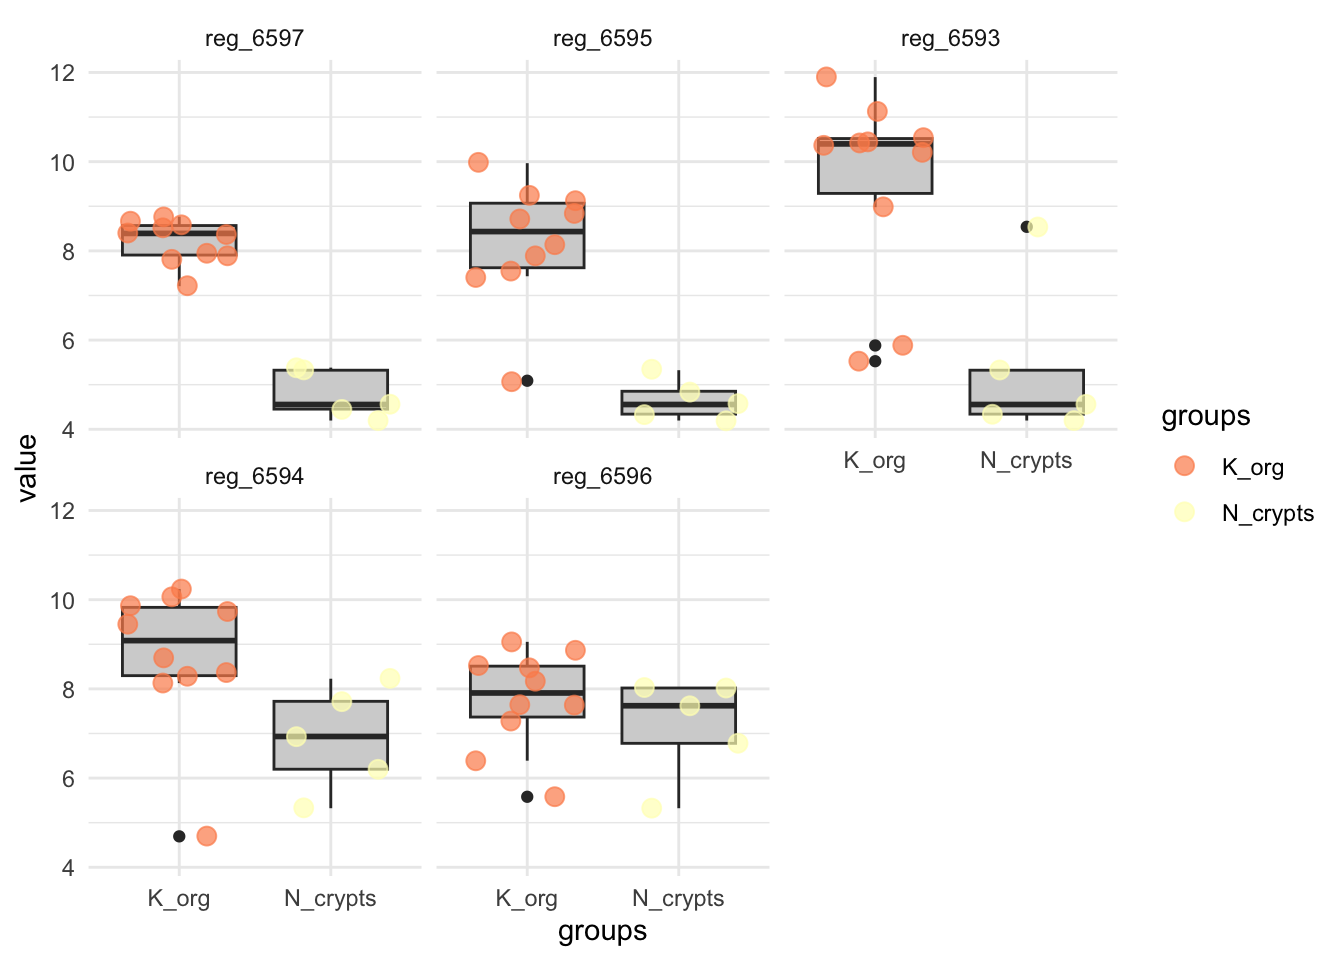
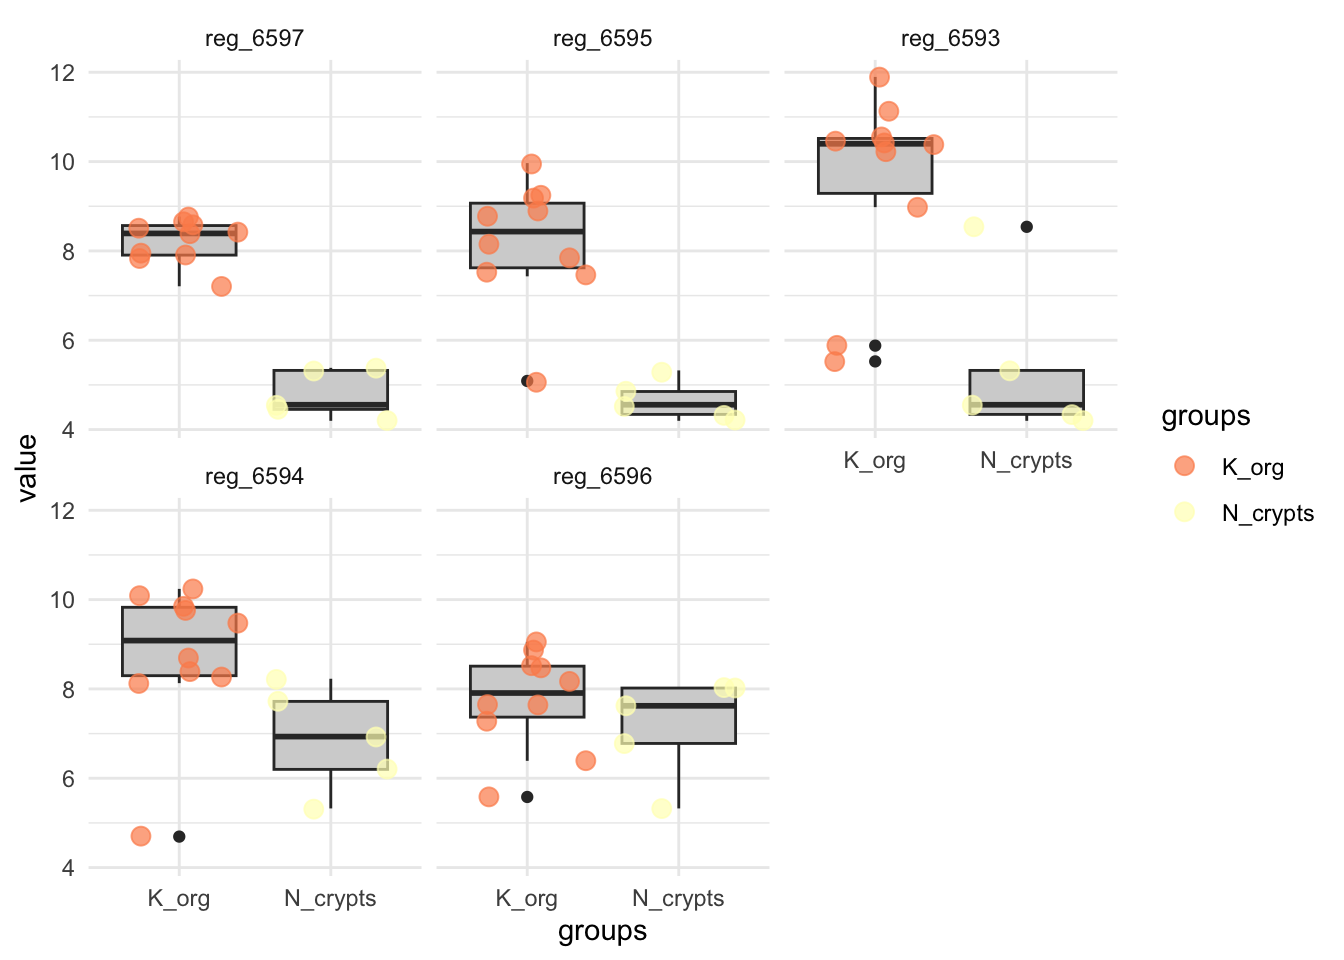
Intro to R updates

diff --git a/docs/IntroGR/pages/Intro_to_R.html b/docs/IntroGR/pages/Intro_to_R.html
@@ -6,7 +6,7 @@
 
 <meta name="viewport" content="width=device-width, initial-scale=1.0, user-scalable=yes">
 
-<meta name="dcterms.date" content="2026-05-24">
+<meta name="dcterms.date" content="2026-05-25">
 
 <title>Introduction to R – 2026 MBMM UNIMI</title>
 <style>
@@ -244,7 +244,7 @@ pre > code.sourceCode > span > a:first-child::before { text-decoration: underlin
     <div>
     <div class="quarto-title-meta-heading">Published</div>
     <div class="quarto-title-meta-contents">
-      <p class="date">May 24, 2026</p>
+      <p class="date">May 25, 2026</p>
     </div>
   </div>
   
@@ -292,7 +292,7 @@ div.col pre.r { background-color:white; }
 <p>You can follow two strategies:</p>
 <ol type="1">
 <li>Install <code>R</code> and RStudio on your machine</li>
-<li><strong>Use the R Studio already installed on the mochines in the room.</strong></li>
+<li><strong>Use the R Studio already installed on the machines in the room.</strong></li>
 <li>Run RStudio in a browser using RStudio Cloud.</li>
 </ol>
 <p>Note that the first option will require a bit more time and effort. To get started with RStudio Cloud (now Posit Cloud), click on <a href="https://posit.cloud/plans/free">this link</a> and create a Posit free account. Once you completed your registration, you are redirected to <code>Your Workspace</code>. To start a new R project, you can click on <code>New Project &gt; New RStudio Project</code>. This will open RStudio on the Cloud. Select R 4.4 from the R version option above the Global Environment Panel (top right)</p>
@@ -749,7 +749,7 @@ $metadata
 <img src="../pics/Function.png" class="img-fluid" width="500">
 </center>
 <blockquote class="blockquote">
-<p>Make your own function! If the formula to convert Fahrenheit to Celsius is as follows, how can you define a function? (32°F − 32) × 5/9 = 0°C</p>
+<p>🤔 Exercise: Make your own function! If the formula to convert Fahrenheit to Celsius is as follows, how can you define a function? (32°F − 32) × 5/9 = 0°C</p>
 </blockquote>
 <blockquote class="blockquote">
 <p>💡We can also nest one function call inside another.</p>
@@ -990,15 +990,13 @@ Porsche 914-2  26.0   4 120.3  91 4.43 2.140 16.70  0  1    5    2       1
 Lotus Europa   30.4   4  95.1 113 3.77 1.513 16.90  1  1    5    2       1</code></pre>
 </div>
 </div>
-<p>Combining operations: Identify cars with 5 gears and horse power &gt; 100. Display the miles per gallon in descending order.</p>
+<blockquote class="blockquote">
 <p>Note, we do not create a new object here, just inspecting the output of the combined functions we perform.</p>
+</blockquote>
+<blockquote class="blockquote">
+<p>🤔 Exercise: Identify cars with 5 gears and horse power &gt; 100. Display the miles per gallon in descending order.</p>
+</blockquote>
 <div class="cell" data-layout-align="center">
-<div class="code-copy-outer-scaffold"><div class="sourceCode cell-code" id="cb106"><pre class="sourceCode r code-with-copy"><code class="sourceCode r"><span id="cb106-1"><a href="#cb106-1" aria-hidden="true" tabindex="-1"></a><span class="co"># Combining operations</span></span>
-<span id="cb106-2"><a href="#cb106-2" aria-hidden="true" tabindex="-1"></a>mtcars <span class="sc">%&gt;%</span> </span>
-<span id="cb106-3"><a href="#cb106-3" aria-hidden="true" tabindex="-1"></a>      <span class="fu">mutate</span>(<span class="at">hmpg_gear =</span> <span class="fu">ifelse</span>(hp<span class="sc">&gt;</span><span class="dv">100</span> <span class="sc">&amp;</span> gear<span class="sc">==</span><span class="dv">5</span>, <span class="st">'1'</span>, <span class="st">'0'</span>)) <span class="sc">%&gt;%</span> </span>
-<span id="cb106-4"><a href="#cb106-4" aria-hidden="true" tabindex="-1"></a>      <span class="fu">filter</span>(hmpg_gear<span class="sc">==</span><span class="dv">1</span>) <span class="sc">%&gt;%</span></span>
-<span id="cb106-5"><a href="#cb106-5" aria-hidden="true" tabindex="-1"></a>      <span class="fu">arrange</span>(<span class="fu">desc</span>(mpg)) <span class="sc">%&gt;%</span></span>
-<span id="cb106-6"><a href="#cb106-6" aria-hidden="true" tabindex="-1"></a>      <span class="fu">select</span>(mpg)</span></code></pre></div><button title="Copy to Clipboard" class="code-copy-button"><i class="bi"></i></button></div>
 <div class="cell-output cell-output-stdout">
 <pre class="bordered"><code>                mpg
 Lotus Europa   30.4
@@ -1032,14 +1030,14 @@ Maserati Bora  15.0</code></pre>
 <p>We will convert a subset (<code>slice</code> and <code>select</code>) of the mtcars object from wide to long format. We specify which columns we want to pivot into longer format in the <code>cols</code> argument. This information will be stored in the metadata column <code>names_to</code>. The actual values will be stored in the <code>values_to</code> column. <code>cols</code> defines a selection of columns. If empty, all variables are selected. You can supply bare variable names, select all variables between x and z with x:z, exclude y with -y.</p>
 <p>We keep the rownames as a separate column.</p>
 <div class="cell" data-layout-align="center">
-<div class="code-copy-outer-scaffold"><div class="sourceCode cell-code" id="cb108"><pre class="sourceCode r code-with-copy"><code class="sourceCode r"><span id="cb108-1"><a href="#cb108-1" aria-hidden="true" tabindex="-1"></a><span class="co"># Convert from wide to long format</span></span>
-<span id="cb108-2"><a href="#cb108-2" aria-hidden="true" tabindex="-1"></a>mtcars <span class="sc">%&gt;%</span> </span>
-<span id="cb108-3"><a href="#cb108-3" aria-hidden="true" tabindex="-1"></a>  <span class="fu">slice</span>(<span class="dv">1</span><span class="sc">:</span><span class="dv">4</span>) <span class="sc">%&gt;%</span> </span>
-<span id="cb108-4"><a href="#cb108-4" aria-hidden="true" tabindex="-1"></a>  <span class="fu">select</span>(<span class="dv">1</span><span class="sc">:</span><span class="dv">4</span>) <span class="sc">%&gt;%</span> </span>
-<span id="cb108-5"><a href="#cb108-5" aria-hidden="true" tabindex="-1"></a>  <span class="fu">mutate</span>(<span class="at">cars=</span><span class="fu">rownames</span>(.)) <span class="sc">%&gt;%</span> </span>
-<span id="cb108-6"><a href="#cb108-6" aria-hidden="true" tabindex="-1"></a>  <span class="co">#pivot_longer(!cars, names_to = "keys", values_to = "value")</span></span>
-<span id="cb108-7"><a href="#cb108-7" aria-hidden="true" tabindex="-1"></a>  <span class="fu">pivot_longer</span>(<span class="at">cols=</span>mpg<span class="sc">:</span>hp, <span class="at">names_to =</span> <span class="st">"keys"</span>, <span class="at">values_to =</span> <span class="st">"value"</span>) <span class="sc">%&gt;%</span></span>
-<span id="cb108-8"><a href="#cb108-8" aria-hidden="true" tabindex="-1"></a>  <span class="fu">kbl</span>() <span class="sc">%&gt;%</span> <span class="fu">kable_styling</span>()</span></code></pre></div><button title="Copy to Clipboard" class="code-copy-button"><i class="bi"></i></button></div>
+<div class="code-copy-outer-scaffold"><div class="sourceCode cell-code" id="cb107"><pre class="sourceCode r code-with-copy"><code class="sourceCode r"><span id="cb107-1"><a href="#cb107-1" aria-hidden="true" tabindex="-1"></a><span class="co"># Convert from wide to long format</span></span>
+<span id="cb107-2"><a href="#cb107-2" aria-hidden="true" tabindex="-1"></a>mtcars <span class="sc">%&gt;%</span> </span>
+<span id="cb107-3"><a href="#cb107-3" aria-hidden="true" tabindex="-1"></a>  <span class="fu">slice</span>(<span class="dv">1</span><span class="sc">:</span><span class="dv">4</span>) <span class="sc">%&gt;%</span> </span>
+<span id="cb107-4"><a href="#cb107-4" aria-hidden="true" tabindex="-1"></a>  <span class="fu">select</span>(<span class="dv">1</span><span class="sc">:</span><span class="dv">4</span>) <span class="sc">%&gt;%</span> </span>
+<span id="cb107-5"><a href="#cb107-5" aria-hidden="true" tabindex="-1"></a>  <span class="fu">mutate</span>(<span class="at">cars=</span><span class="fu">rownames</span>(.)) <span class="sc">%&gt;%</span> </span>
+<span id="cb107-6"><a href="#cb107-6" aria-hidden="true" tabindex="-1"></a>  <span class="fu">pivot_longer</span>(<span class="at">cols=</span><span class="sc">!</span>cars, <span class="at">names_to =</span> <span class="st">"keys"</span>, <span class="at">values_to =</span> <span class="st">"value"</span>) <span class="sc">%&gt;%</span></span>
+<span id="cb107-7"><a href="#cb107-7" aria-hidden="true" tabindex="-1"></a>  <span class="co">#pivot_longer(cols=mpg:hp, names_to = "keys", values_to = "value") %&gt;%</span></span>
+<span id="cb107-8"><a href="#cb107-8" aria-hidden="true" tabindex="-1"></a>  <span class="fu">kbl</span>() <span class="sc">%&gt;%</span> <span class="fu">kable_styling</span>()</span></code></pre></div><button title="Copy to Clipboard" class="code-copy-button"><i class="bi"></i></button></div>
 <div class="cell-output-display">
 <table class="table caption-top table-sm table-striped small">
 <thead>
@@ -1136,15 +1134,16 @@ Maserati Bora  15.0</code></pre>
 </div>
 <p>We first covert from wide to long format (in this cases using <code>gather</code> which is no longer under active development). Then we convert back to wide format.</p>
 <div class="cell" data-layout-align="center">
-<div class="code-copy-outer-scaffold"><div class="sourceCode cell-code" id="cb109"><pre class="sourceCode r code-with-copy"><code class="sourceCode r"><span id="cb109-1"><a href="#cb109-1" aria-hidden="true" tabindex="-1"></a><span class="co"># Convert from long back to wide format</span></span>
-<span id="cb109-2"><a href="#cb109-2" aria-hidden="true" tabindex="-1"></a>mtcars <span class="sc">%&gt;%</span> <span class="fu">slice</span>(<span class="dv">1</span><span class="sc">:</span><span class="dv">4</span>) <span class="sc">%&gt;%</span> <span class="fu">select</span>(<span class="dv">1</span><span class="sc">:</span><span class="dv">4</span>) <span class="sc">%&gt;%</span> </span>
-<span id="cb109-3"><a href="#cb109-3" aria-hidden="true" tabindex="-1"></a>  <span class="fu">mutate</span>(<span class="at">cars=</span><span class="fu">rownames</span>(.)) <span class="sc">%&gt;%</span> </span>
-<span id="cb109-4"><a href="#cb109-4" aria-hidden="true" tabindex="-1"></a>  <span class="co"># Here we use gather</span></span>
-<span id="cb109-5"><a href="#cb109-5" aria-hidden="true" tabindex="-1"></a>  <span class="fu">gather</span>(keys, value, <span class="sc">-</span>cars) <span class="sc">%&gt;%</span></span>
-<span id="cb109-6"><a href="#cb109-6" aria-hidden="true" tabindex="-1"></a>  <span class="fu">pivot_wider</span>(<span class="at">names_from =</span> <span class="st">"keys"</span>, </span>
-<span id="cb109-7"><a href="#cb109-7" aria-hidden="true" tabindex="-1"></a>              <span class="at">names_prefix =</span> <span class="st">"var_"</span>,</span>
-<span id="cb109-8"><a href="#cb109-8" aria-hidden="true" tabindex="-1"></a>              <span class="at">values_from =</span> <span class="st">"value"</span>) <span class="sc">%&gt;%</span></span>
-<span id="cb109-9"><a href="#cb109-9" aria-hidden="true" tabindex="-1"></a>  <span class="fu">kbl</span>() <span class="sc">%&gt;%</span> <span class="fu">kable_styling</span>()</span></code></pre></div><button title="Copy to Clipboard" class="code-copy-button"><i class="bi"></i></button></div>
+<div class="code-copy-outer-scaffold"><div class="sourceCode cell-code" id="cb108"><pre class="sourceCode r code-with-copy"><code class="sourceCode r"><span id="cb108-1"><a href="#cb108-1" aria-hidden="true" tabindex="-1"></a><span class="co"># Convert from long back to wide format</span></span>
+<span id="cb108-2"><a href="#cb108-2" aria-hidden="true" tabindex="-1"></a>mtcars <span class="sc">%&gt;%</span> <span class="fu">slice</span>(<span class="dv">1</span><span class="sc">:</span><span class="dv">4</span>) <span class="sc">%&gt;%</span> <span class="fu">select</span>(<span class="dv">1</span><span class="sc">:</span><span class="dv">4</span>) <span class="sc">%&gt;%</span> </span>
+<span id="cb108-3"><a href="#cb108-3" aria-hidden="true" tabindex="-1"></a>  <span class="fu">mutate</span>(<span class="at">cars=</span><span class="fu">rownames</span>(.)) <span class="sc">%&gt;%</span> </span>
+<span id="cb108-4"><a href="#cb108-4" aria-hidden="true" tabindex="-1"></a>  <span class="co"># Here we use gather</span></span>
+<span id="cb108-5"><a href="#cb108-5" aria-hidden="true" tabindex="-1"></a>  <span class="fu">gather</span>(keys, value, <span class="sc">-</span>cars) <span class="sc">%&gt;%</span></span>
+<span id="cb108-6"><a href="#cb108-6" aria-hidden="true" tabindex="-1"></a>  <span class="co">#reshape2::melt(id.vars="cars", measure.vars= c("mpg", "cyl", "disp", "hp"),variable.name="keys",     value.name="value") %&gt;%</span></span>
+<span id="cb108-7"><a href="#cb108-7" aria-hidden="true" tabindex="-1"></a>  <span class="fu">pivot_wider</span>(<span class="at">names_from =</span> <span class="st">"keys"</span>, </span>
+<span id="cb108-8"><a href="#cb108-8" aria-hidden="true" tabindex="-1"></a>              <span class="at">names_prefix =</span> <span class="st">"var_"</span>,</span>
+<span id="cb108-9"><a href="#cb108-9" aria-hidden="true" tabindex="-1"></a>              <span class="at">values_from =</span> <span class="st">"value"</span>) <span class="sc">%&gt;%</span></span>
+<span id="cb108-10"><a href="#cb108-10" aria-hidden="true" tabindex="-1"></a>  <span class="fu">kbl</span>() <span class="sc">%&gt;%</span> <span class="fu">kable_styling</span>()</span></code></pre></div><button title="Copy to Clipboard" class="code-copy-button"><i class="bi"></i></button></div>
 <div class="cell-output-display">
 <table class="table caption-top table-sm table-striped small">
 <thead>
@@ -1195,7 +1194,12 @@ Maserati Bora  15.0</code></pre>
 </section>
 <section id="ggplot2" class="level3">
 <h3 class="anchored" data-anchor-id="ggplot2">ggplot2</h3>
-<p>ggplot is a powerful and flexible library for tidyverse. Data stored in a dataframe/tibble is passed to ggplot along with two main arguments: i) columns to be plotted, and ii) graphical representation to be displayed. Additional customization is possible.</p>
+<p>ggplot is a powerful and flexible library of tidyverse to create plots.</p>
+<center>
+<p><img src="../pics/plots.png" class="img-fluid" width="400"></p>
+<p><a href="https://r-graph-gallery.com/" class="uri"><em>https://r-graph-gallery.com/</em></a></p>
+</center>
+<p>Data stored in a dataframe/tibble is passed to ggplot along with two main arguments: i) columns to be plotted, and ii) graphical representation to be displayed. Additional customization is possible.</p>
 <p><strong>Geometries and Aesthetics</strong></p>
 <p>Geometries are <strong>types of plot</strong>:</p>
 <ul>
@@ -1214,8 +1218,8 @@ Maserati Bora  15.0</code></pre>
 </center>
 <p>Here, we create a scatter plot for two variables in the mtcar dataset and we will annotate the data based on a third variable.</p>
 <div class="cell" data-layout-align="center">
-<div class="code-copy-outer-scaffold"><div class="sourceCode cell-code" id="cb110"><pre class="sourceCode r code-with-copy"><code class="sourceCode r"><span id="cb110-1"><a href="#cb110-1" aria-hidden="true" tabindex="-1"></a>mtcars <span class="sc">%&gt;%</span> </span>
-<span id="cb110-2"><a href="#cb110-2" aria-hidden="true" tabindex="-1"></a>  <span class="fu">ggplot</span>(<span class="fu">aes</span>(mpg, wt, <span class="at">colour=</span>cyl)) <span class="sc">+</span> <span class="fu">geom_point</span>()</span></code></pre></div><button title="Copy to Clipboard" class="code-copy-button"><i class="bi"></i></button></div>
+<div class="code-copy-outer-scaffold"><div class="sourceCode cell-code" id="cb109"><pre class="sourceCode r code-with-copy"><code class="sourceCode r"><span id="cb109-1"><a href="#cb109-1" aria-hidden="true" tabindex="-1"></a>mtcars <span class="sc">%&gt;%</span> </span>
+<span id="cb109-2"><a href="#cb109-2" aria-hidden="true" tabindex="-1"></a>  <span class="fu">ggplot</span>(<span class="fu">aes</span>(mpg, wt, <span class="at">colour=</span>cyl)) <span class="sc">+</span> <span class="fu">geom_point</span>()</span></code></pre></div><button title="Copy to Clipboard" class="code-copy-button"><i class="bi"></i></button></div>
 <div class="cell-output-display">
 <div class="quarto-figure quarto-figure-center">
 <figure class="figure">
@@ -1228,28 +1232,28 @@ Maserati Bora  15.0</code></pre>
 <p>Notice that the <em>cyl</em> is depicted as continuous variable. We can change this behaviour and plot it as discrete variable by converting it to a factor.</p>
 </blockquote>
 <div class="cell" data-layout-align="center">
-<div class="code-copy-outer-scaffold"><div class="sourceCode cell-code" id="cb111"><pre class="sourceCode r code-with-copy"><code class="sourceCode r"><span id="cb111-1"><a href="#cb111-1" aria-hidden="true" tabindex="-1"></a><span class="co"># Check the class of cyl and convert to factor by defining the levels of the factor</span></span>
-<span id="cb111-2"><a href="#cb111-2" aria-hidden="true" tabindex="-1"></a><span class="fu">class</span>(mtcars<span class="sc">$</span>cyl)</span></code></pre></div><button title="Copy to Clipboard" class="code-copy-button"><i class="bi"></i></button></div>
+<div class="code-copy-outer-scaffold"><div class="sourceCode cell-code" id="cb110"><pre class="sourceCode r code-with-copy"><code class="sourceCode r"><span id="cb110-1"><a href="#cb110-1" aria-hidden="true" tabindex="-1"></a><span class="co"># Check the class of cyl and convert to factor by defining the levels of the factor</span></span>
+<span id="cb110-2"><a href="#cb110-2" aria-hidden="true" tabindex="-1"></a><span class="fu">class</span>(mtcars<span class="sc">$</span>cyl)</span></code></pre></div><button title="Copy to Clipboard" class="code-copy-button"><i class="bi"></i></button></div>
 <div class="cell-output cell-output-stdout">
 <pre class="bordered"><code>[1] "numeric"</code></pre>
 </div>
-<div class="code-copy-outer-scaffold"><div class="sourceCode cell-code" id="cb113"><pre class="sourceCode r code-with-copy"><code class="sourceCode r"><span id="cb113-1"><a href="#cb113-1" aria-hidden="true" tabindex="-1"></a><span class="fu">unique</span>(mtcars<span class="sc">$</span>cyl)</span></code></pre></div><button title="Copy to Clipboard" class="code-copy-button"><i class="bi"></i></button></div>
+<div class="code-copy-outer-scaffold"><div class="sourceCode cell-code" id="cb112"><pre class="sourceCode r code-with-copy"><code class="sourceCode r"><span id="cb112-1"><a href="#cb112-1" aria-hidden="true" tabindex="-1"></a><span class="fu">unique</span>(mtcars<span class="sc">$</span>cyl)</span></code></pre></div><button title="Copy to Clipboard" class="code-copy-button"><i class="bi"></i></button></div>
 <div class="cell-output cell-output-stdout">
 <pre class="bordered"><code>[1] 6 4 8</code></pre>
 </div>
-<div class="code-copy-outer-scaffold"><div class="sourceCode cell-code" id="cb115"><pre class="sourceCode r code-with-copy"><code class="sourceCode r"><span id="cb115-1"><a href="#cb115-1" aria-hidden="true" tabindex="-1"></a>mtcars <span class="sc">%&gt;%</span> </span>
-<span id="cb115-2"><a href="#cb115-2" aria-hidden="true" tabindex="-1"></a>  <span class="fu">mutate</span>(<span class="at">cyl =</span> <span class="fu">factor</span>(cyl, <span class="at">levels=</span><span class="fu">unique</span>(cyl)) ) <span class="sc">%&gt;%</span> </span>
-<span id="cb115-3"><a href="#cb115-3" aria-hidden="true" tabindex="-1"></a>  <span class="fu">pull</span>(cyl) <span class="sc">%&gt;%</span> </span>
-<span id="cb115-4"><a href="#cb115-4" aria-hidden="true" tabindex="-1"></a>  <span class="fu">class</span>()</span></code></pre></div><button title="Copy to Clipboard" class="code-copy-button"><i class="bi"></i></button></div>
+<div class="code-copy-outer-scaffold"><div class="sourceCode cell-code" id="cb114"><pre class="sourceCode r code-with-copy"><code class="sourceCode r"><span id="cb114-1"><a href="#cb114-1" aria-hidden="true" tabindex="-1"></a>mtcars <span class="sc">%&gt;%</span> </span>
+<span id="cb114-2"><a href="#cb114-2" aria-hidden="true" tabindex="-1"></a>  <span class="fu">mutate</span>(<span class="at">cyl =</span> <span class="fu">factor</span>(cyl, <span class="at">levels=</span><span class="fu">unique</span>(cyl)) ) <span class="sc">%&gt;%</span> </span>
+<span id="cb114-3"><a href="#cb114-3" aria-hidden="true" tabindex="-1"></a>  <span class="fu">pull</span>(cyl) <span class="sc">%&gt;%</span> </span>
+<span id="cb114-4"><a href="#cb114-4" aria-hidden="true" tabindex="-1"></a>  <span class="fu">class</span>()</span></code></pre></div><button title="Copy to Clipboard" class="code-copy-button"><i class="bi"></i></button></div>
 <div class="cell-output cell-output-stdout">
 <pre class="bordered"><code>[1] "factor"</code></pre>
 </div>
-<div class="code-copy-outer-scaffold"><div class="sourceCode cell-code" id="cb117"><pre class="sourceCode r code-with-copy"><code class="sourceCode r"><span id="cb117-1"><a href="#cb117-1" aria-hidden="true" tabindex="-1"></a><span class="co">#mtcars %&gt;% mutate(across(cyl, as.factor)) %&gt;% pull(cyl) %&gt;% class()</span></span></code></pre></div><button title="Copy to Clipboard" class="code-copy-button"><i class="bi"></i></button></div>
+<div class="code-copy-outer-scaffold"><div class="sourceCode cell-code" id="cb116"><pre class="sourceCode r code-with-copy"><code class="sourceCode r"><span id="cb116-1"><a href="#cb116-1" aria-hidden="true" tabindex="-1"></a><span class="co">#mtcars %&gt;% mutate(across(cyl, as.factor)) %&gt;% pull(cyl) %&gt;% class()</span></span></code></pre></div><button title="Copy to Clipboard" class="code-copy-button"><i class="bi"></i></button></div>
 </div>
 <div class="cell" data-layout-align="center">
-<div class="code-copy-outer-scaffold"><div class="sourceCode cell-code" id="cb118"><pre class="sourceCode r code-with-copy"><code class="sourceCode r"><span id="cb118-1"><a href="#cb118-1" aria-hidden="true" tabindex="-1"></a>mtcars <span class="sc">%&gt;%</span> <span class="fu">mutate</span>(<span class="fu">across</span>(cyl, as.factor)) <span class="sc">%&gt;%</span> </span>
-<span id="cb118-2"><a href="#cb118-2" aria-hidden="true" tabindex="-1"></a>        <span class="fu">ggplot</span>(<span class="fu">aes</span>(mpg, wt, <span class="at">colour=</span>cyl)) <span class="sc">+</span> </span>
-<span id="cb118-3"><a href="#cb118-3" aria-hidden="true" tabindex="-1"></a>          <span class="fu">geom_point</span>()</span></code></pre></div><button title="Copy to Clipboard" class="code-copy-button"><i class="bi"></i></button></div>
+<div class="code-copy-outer-scaffold"><div class="sourceCode cell-code" id="cb117"><pre class="sourceCode r code-with-copy"><code class="sourceCode r"><span id="cb117-1"><a href="#cb117-1" aria-hidden="true" tabindex="-1"></a>mtcars <span class="sc">%&gt;%</span> <span class="fu">mutate</span>(<span class="fu">across</span>(cyl, as.factor)) <span class="sc">%&gt;%</span> </span>
+<span id="cb117-2"><a href="#cb117-2" aria-hidden="true" tabindex="-1"></a>        <span class="fu">ggplot</span>(<span class="fu">aes</span>(mpg, wt, <span class="at">colour=</span>cyl)) <span class="sc">+</span> </span>
+<span id="cb117-3"><a href="#cb117-3" aria-hidden="true" tabindex="-1"></a>          <span class="fu">geom_point</span>()</span></code></pre></div><button title="Copy to Clipboard" class="code-copy-button"><i class="bi"></i></button></div>
 <div class="cell-output-display">
 <div class="quarto-figure quarto-figure-center">
 <figure class="figure">
@@ -1258,14 +1262,14 @@ Maserati Bora  15.0</code></pre>
 </div>
 </div>
 </div>
-<p>Can you modify the code to annotate with car labels?</p>
+<p>Can you modify the code to annotate each point with its car label?</p>
 <div class="cell" data-layout-align="center">
-<div class="code-copy-outer-scaffold"><div class="sourceCode cell-code" id="cb119"><pre class="sourceCode r code-with-copy"><code class="sourceCode r"><span id="cb119-1"><a href="#cb119-1" aria-hidden="true" tabindex="-1"></a>mtcars <span class="sc">%&gt;%</span> </span>
-<span id="cb119-2"><a href="#cb119-2" aria-hidden="true" tabindex="-1"></a>  <span class="fu">mutate</span>(<span class="fu">across</span>(cyl, as.factor),</span>
-<span id="cb119-3"><a href="#cb119-3" aria-hidden="true" tabindex="-1"></a>          <span class="at">cars=</span><span class="fu">rownames</span>(.) ) <span class="sc">%&gt;%</span> </span>
-<span id="cb119-4"><a href="#cb119-4" aria-hidden="true" tabindex="-1"></a>  <span class="fu">ggplot</span>(<span class="fu">aes</span>(mpg, wt, <span class="at">colour=</span>cyl, <span class="at">label=</span>cars)) <span class="sc">+</span> </span>
-<span id="cb119-5"><a href="#cb119-5" aria-hidden="true" tabindex="-1"></a>      <span class="fu">geom_point</span>() <span class="sc">+</span> </span>
-<span id="cb119-6"><a href="#cb119-6" aria-hidden="true" tabindex="-1"></a>      <span class="fu">geom_text</span>(<span class="at">vjust=</span><span class="fl">1.6</span>, <span class="at">hjust=</span><span class="fl">0.4</span>, <span class="at">size=</span><span class="dv">2</span>)</span></code></pre></div><button title="Copy to Clipboard" class="code-copy-button"><i class="bi"></i></button></div>
+<div class="code-copy-outer-scaffold"><div class="sourceCode cell-code" id="cb118"><pre class="sourceCode r code-with-copy"><code class="sourceCode r"><span id="cb118-1"><a href="#cb118-1" aria-hidden="true" tabindex="-1"></a>mtcars <span class="sc">%&gt;%</span> </span>
+<span id="cb118-2"><a href="#cb118-2" aria-hidden="true" tabindex="-1"></a>  <span class="fu">mutate</span>(<span class="fu">across</span>(cyl, as.factor),</span>
+<span id="cb118-3"><a href="#cb118-3" aria-hidden="true" tabindex="-1"></a>          <span class="at">cars=</span><span class="fu">rownames</span>(.) ) <span class="sc">%&gt;%</span> </span>
+<span id="cb118-4"><a href="#cb118-4" aria-hidden="true" tabindex="-1"></a>  <span class="fu">ggplot</span>(<span class="fu">aes</span>(mpg, wt, <span class="at">colour=</span>cyl, <span class="at">label=</span>cars)) <span class="sc">+</span> </span>
+<span id="cb118-5"><a href="#cb118-5" aria-hidden="true" tabindex="-1"></a>      <span class="fu">geom_point</span>() <span class="sc">+</span> </span>
+<span id="cb118-6"><a href="#cb118-6" aria-hidden="true" tabindex="-1"></a>      <span class="fu">geom_text</span>(<span class="at">vjust=</span><span class="fl">1.6</span>, <span class="at">hjust=</span><span class="fl">0.4</span>, <span class="at">size=</span><span class="dv">2</span>)</span></code></pre></div><button title="Copy to Clipboard" class="code-copy-button"><i class="bi"></i></button></div>
 <div class="cell-output-display">
 <div class="quarto-figure quarto-figure-center">
 <figure class="figure">
@@ -1274,14 +1278,14 @@ Maserati Bora  15.0</code></pre>
 </div>
 </div>
 </div>
-<p>More exercises:</p>
+<blockquote class="blockquote">
+<p>🤔 More exercises:</p>
 <ul>
-<li>Make all data points size 4 and blue, with red stroke of size 2 and size 4.</li>
-<li>Size according to the number of gears</li>
+<li><p>Make all data points size 4 and blue, with red stroke of size 2.</p></li>
+<li><p>Size according to the number of gears</p></li>
 </ul>
+</blockquote>
 <div class="cell" data-layout-align="center">
-<div class="code-copy-outer-scaffold"><div class="sourceCode cell-code" id="cb120"><pre class="sourceCode r code-with-copy"><code class="sourceCode r"><span id="cb120-1"><a href="#cb120-1" aria-hidden="true" tabindex="-1"></a>mtcars <span class="sc">%&gt;%</span> <span class="fu">ggplot</span>(<span class="fu">aes</span>(mpg, wt )) <span class="sc">+</span> </span>
-<span id="cb120-2"><a href="#cb120-2" aria-hidden="true" tabindex="-1"></a>  <span class="fu">geom_point</span>(<span class="at">size=</span><span class="dv">4</span>, <span class="at">colour=</span><span class="st">'red'</span>, <span class="at">fill=</span><span class="st">'blue'</span>, <span class="at">shape=</span><span class="dv">21</span>, <span class="at">stroke=</span><span class="dv">2</span>)</span></code></pre></div><button title="Copy to Clipboard" class="code-copy-button"><i class="bi"></i></button></div>
 <div class="cell-output-display">
 <div class="quarto-figure quarto-figure-center">
 <figure class="figure">
@@ -1289,8 +1293,6 @@ Maserati Bora  15.0</code></pre>
 </figure>
 </div>
 </div>
-<div class="code-copy-outer-scaffold"><div class="sourceCode cell-code" id="cb121"><pre class="sourceCode r code-with-copy"><code class="sourceCode r"><span id="cb121-1"><a href="#cb121-1" aria-hidden="true" tabindex="-1"></a>mtcars <span class="sc">%&gt;%</span> <span class="fu">mutate</span>(<span class="fu">across</span>(gear, as.factor)) <span class="sc">%&gt;%</span> </span>
-<span id="cb121-2"><a href="#cb121-2" aria-hidden="true" tabindex="-1"></a>  <span class="fu">ggplot</span>(<span class="fu">aes</span>(mpg, wt, <span class="at">size=</span>gear)) <span class="sc">+</span> <span class="fu">geom_point</span>(<span class="at">colour=</span><span class="st">'red'</span>)</span></code></pre></div><button title="Copy to Clipboard" class="code-copy-button"><i class="bi"></i></button></div>
 <div class="cell-output-display">
 <div class="quarto-figure quarto-figure-center">
 <figure class="figure">
@@ -1303,24 +1305,24 @@ Maserati Bora  15.0</code></pre>
 <p>Geometries warn when missing values have been dropped from the data set and not plotted. You can turn this off by setting na.rm = TRUE.</p>
 </blockquote>
 <p>Plotting distributions - multiple density plots</p>
-<p>Plot the miles per gallon density across different cylinder values</p>
+<p>Plot the miles per gallon density across different cylinder values. Here, we use additional Aesthetics to change the appearance of the axes and modify the colors of the separate density plots.</p>
 <div class="cell" data-layout-align="center">
-<div class="code-copy-outer-scaffold"><div class="sourceCode cell-code" id="cb122"><pre class="sourceCode r code-with-copy"><code class="sourceCode r"><span id="cb122-1"><a href="#cb122-1" aria-hidden="true" tabindex="-1"></a>mtcars <span class="sc">%&gt;%</span> <span class="fu">mutate</span>(<span class="fu">across</span>(cyl, as.factor)) <span class="sc">%&gt;%</span> </span>
-<span id="cb122-2"><a href="#cb122-2" aria-hidden="true" tabindex="-1"></a>  <span class="fu">ggplot</span>(<span class="fu">aes</span>(mpg, <span class="at">fill=</span>cyl, <span class="at">colour =</span> cyl)) <span class="sc">+</span> </span>
-<span id="cb122-3"><a href="#cb122-3" aria-hidden="true" tabindex="-1"></a>  <span class="fu">geom_density</span>(<span class="at">alpha=</span><span class="fl">0.4</span>) <span class="sc">+</span> </span>
-<span id="cb122-4"><a href="#cb122-4" aria-hidden="true" tabindex="-1"></a>  <span class="fu">theme_classic</span>() <span class="sc">+</span></span>
-<span id="cb122-5"><a href="#cb122-5" aria-hidden="true" tabindex="-1"></a>  <span class="fu">scale_fill_manual</span>(<span class="at">values=</span><span class="fu">c</span>(<span class="st">'grey'</span>,<span class="st">'lightblue'</span>,<span class="st">'yellow'</span>)) <span class="sc">+</span></span>
-<span id="cb122-6"><a href="#cb122-6" aria-hidden="true" tabindex="-1"></a>  <span class="fu">theme</span>(<span class="fu">ggtitle</span>(<span class="st">"Miles per gallon density"</span>),</span>
-<span id="cb122-7"><a href="#cb122-7" aria-hidden="true" tabindex="-1"></a>        <span class="at">legend.position=</span><span class="st">"bottom"</span>, </span>
-<span id="cb122-8"><a href="#cb122-8" aria-hidden="true" tabindex="-1"></a>        <span class="at">legend.text =</span> <span class="fu">element_text</span>(<span class="at">size =</span> <span class="dv">20</span>), </span>
-<span id="cb122-9"><a href="#cb122-9" aria-hidden="true" tabindex="-1"></a>        <span class="at">legend.title =</span> <span class="fu">element_text</span>(<span class="at">size =</span> <span class="dv">15</span>, <span class="at">face =</span> <span class="st">'bold'</span>),</span>
-<span id="cb122-10"><a href="#cb122-10" aria-hidden="true" tabindex="-1"></a>        <span class="at">axis.title.x =</span> <span class="fu">element_text</span>(<span class="at">size =</span> <span class="dv">16</span>),</span>
-<span id="cb122-11"><a href="#cb122-11" aria-hidden="true" tabindex="-1"></a>        <span class="at">axis.title.y =</span> <span class="fu">element_text</span>(<span class="at">size =</span> <span class="dv">16</span>),</span>
-<span id="cb122-12"><a href="#cb122-12" aria-hidden="true" tabindex="-1"></a>        <span class="at">axis.text.y=</span><span class="fu">element_text</span>(<span class="at">size =</span> <span class="dv">10</span>),</span>
-<span id="cb122-13"><a href="#cb122-13" aria-hidden="true" tabindex="-1"></a>        <span class="at">axis.text.x=</span><span class="fu">element_text</span>(<span class="at">size =</span> <span class="dv">10</span>),</span>
-<span id="cb122-14"><a href="#cb122-14" aria-hidden="true" tabindex="-1"></a>        <span class="at">legend.key.size =</span> <span class="fu">unit</span>(.<span class="dv">4</span>, <span class="st">"cm"</span>)) <span class="sc">+</span></span>
-<span id="cb122-15"><a href="#cb122-15" aria-hidden="true" tabindex="-1"></a>  <span class="fu">ylab</span>(<span class="st">'Density'</span>) <span class="sc">+</span></span>
-<span id="cb122-16"><a href="#cb122-16" aria-hidden="true" tabindex="-1"></a>  <span class="fu">xlab</span>(<span class="st">'Miles per gallon'</span>)</span></code></pre></div><button title="Copy to Clipboard" class="code-copy-button"><i class="bi"></i></button></div>
+<div class="code-copy-outer-scaffold"><div class="sourceCode cell-code" id="cb119"><pre class="sourceCode r code-with-copy"><code class="sourceCode r"><span id="cb119-1"><a href="#cb119-1" aria-hidden="true" tabindex="-1"></a>mtcars <span class="sc">%&gt;%</span> <span class="fu">mutate</span>(<span class="fu">across</span>(cyl, as.factor)) <span class="sc">%&gt;%</span> </span>
+<span id="cb119-2"><a href="#cb119-2" aria-hidden="true" tabindex="-1"></a>  <span class="fu">ggplot</span>(<span class="fu">aes</span>(mpg, <span class="at">fill=</span>cyl, <span class="at">colour =</span> cyl)) <span class="sc">+</span> </span>
+<span id="cb119-3"><a href="#cb119-3" aria-hidden="true" tabindex="-1"></a>  <span class="fu">geom_density</span>(<span class="at">alpha=</span><span class="fl">0.4</span>) <span class="sc">+</span> </span>
+<span id="cb119-4"><a href="#cb119-4" aria-hidden="true" tabindex="-1"></a>  <span class="fu">theme_classic</span>() <span class="sc">+</span></span>
+<span id="cb119-5"><a href="#cb119-5" aria-hidden="true" tabindex="-1"></a>  <span class="fu">scale_fill_manual</span>(<span class="at">values=</span><span class="fu">c</span>(<span class="st">'grey'</span>,<span class="st">'lightblue'</span>,<span class="st">'yellow'</span>)) <span class="sc">+</span></span>
+<span id="cb119-6"><a href="#cb119-6" aria-hidden="true" tabindex="-1"></a>  <span class="fu">theme</span>(<span class="fu">ggtitle</span>(<span class="st">"Miles per gallon density"</span>),</span>
+<span id="cb119-7"><a href="#cb119-7" aria-hidden="true" tabindex="-1"></a>        <span class="at">legend.position=</span><span class="st">"bottom"</span>, </span>
+<span id="cb119-8"><a href="#cb119-8" aria-hidden="true" tabindex="-1"></a>        <span class="at">legend.text =</span> <span class="fu">element_text</span>(<span class="at">size =</span> <span class="dv">20</span>), </span>
+<span id="cb119-9"><a href="#cb119-9" aria-hidden="true" tabindex="-1"></a>        <span class="at">legend.title =</span> <span class="fu">element_text</span>(<span class="at">size =</span> <span class="dv">15</span>, <span class="at">face =</span> <span class="st">'bold'</span>),</span>
+<span id="cb119-10"><a href="#cb119-10" aria-hidden="true" tabindex="-1"></a>        <span class="at">axis.title.x =</span> <span class="fu">element_text</span>(<span class="at">size =</span> <span class="dv">16</span>),</span>
+<span id="cb119-11"><a href="#cb119-11" aria-hidden="true" tabindex="-1"></a>        <span class="at">axis.title.y =</span> <span class="fu">element_text</span>(<span class="at">size =</span> <span class="dv">16</span>),</span>
+<span id="cb119-12"><a href="#cb119-12" aria-hidden="true" tabindex="-1"></a>        <span class="at">axis.text.y=</span><span class="fu">element_text</span>(<span class="at">size =</span> <span class="dv">10</span>),</span>
+<span id="cb119-13"><a href="#cb119-13" aria-hidden="true" tabindex="-1"></a>        <span class="at">axis.text.x=</span><span class="fu">element_text</span>(<span class="at">size =</span> <span class="dv">10</span>),</span>
+<span id="cb119-14"><a href="#cb119-14" aria-hidden="true" tabindex="-1"></a>        <span class="at">legend.key.size =</span> <span class="fu">unit</span>(.<span class="dv">4</span>, <span class="st">"cm"</span>)) <span class="sc">+</span></span>
+<span id="cb119-15"><a href="#cb119-15" aria-hidden="true" tabindex="-1"></a>  <span class="fu">ylab</span>(<span class="st">'Density'</span>) <span class="sc">+</span></span>
+<span id="cb119-16"><a href="#cb119-16" aria-hidden="true" tabindex="-1"></a>  <span class="fu">xlab</span>(<span class="st">'Miles per gallon'</span>)</span></code></pre></div><button title="Copy to Clipboard" class="code-copy-button"><i class="bi"></i></button></div>
 <div class="cell-output-display">
 <div class="quarto-figure quarto-figure-center">
 <figure class="figure">
@@ -1333,7 +1335,9 @@ Maserati Bora  15.0</code></pre>
 <p>💡 Perform Exploratory Data Analysis using the package <code>explore</code>. <a href="https://cran.r-project.org/web/packages/explore/vignettes/explore-mtcars.html" class="uri">https://cran.r-project.org/web/packages/explore/vignettes/explore-mtcars.html</a></p>
 </blockquote>
 <blockquote class="blockquote">
-<p>💡 Create beautiful and informative plots with ggplot. <a href="https://r-graph-gallery.com/" class="uri">https://r-graph-gallery.com/</a> <a href="https://www.cedricscherer.com/2019/08/05/a-ggplot2-tutorial-for-beautiful-plotting-in-r/" class="uri">https://www.cedricscherer.com/2019/08/05/a-ggplot2-tutorial-for-beautiful-plotting-in-r/</a></p>
+<p>💡 Create beautiful and informative plots with ggplot.</p>
+<p><a href="https://r-graph-gallery.com/" class="uri">https://r-graph-gallery.com/</a></p>
+<p><a href="https://www.cedricscherer.com/2019/08/05/a-ggplot2-tutorial-for-beautiful-plotting-in-r/" class="uri">https://www.cedricscherer.com/2019/08/05/a-ggplot2-tutorial-for-beautiful-plotting-in-r/</a></p>
 </blockquote>
 </section>
 </section>

diff --git a/docs/ChIP-seq_analysis/pages/ChIP-seq_analysis_part2.html b/docs/ChIP-seq_analysis/pages/ChIP-seq_analysis_part2.html
@@ -6,7 +6,7 @@
 
 <meta name="viewport" content="width=device-width, initial-scale=1.0, user-scalable=yes">
 
-<meta name="dcterms.date" content="2026-05-24">
+<meta name="dcterms.date" content="2026-05-25">
 
 <title>ChIP-seq_analysis_part2 – 2026 MBMM UNIMI</title>
 <style>
@@ -230,7 +230,7 @@ pre > code.sourceCode > span > a:first-child::before { text-decoration: underlin
     <div>
     <div class="quarto-title-meta-heading">Published</div>
     <div class="quarto-title-meta-contents">
-      <p class="date">May 24, 2026</p>
+      <p class="date">May 25, 2026</p>
     </div>
   </div>
   
@@ -859,14 +859,14 @@ $GRADE_COLON_AND_RECTAL_CANCER_DN
 <div class="code-copy-outer-scaffold"><div class="sourceCode cell-code" id="cb33"><pre class="sourceCode r code-with-copy"><code class="sourceCode r"><span id="cb33-1"><a href="#cb33-1" aria-hidden="true" tabindex="-1"></a><span class="co"># Take a look at results</span></span>
 <span id="cb33-2"><a href="#cb33-2" aria-hidden="true" tabindex="-1"></a>fgseaRes</span></code></pre></div><button title="Copy to Clipboard" class="code-copy-button"><i class="bi"></i></button></div>
 <div class="cell-output cell-output-stdout">
-<pre class="bordered"><code>                            pathway       pval       padj        ES       NES
-                             &lt;char&gt;      &lt;num&gt;      &lt;num&gt;     &lt;num&gt;     &lt;num&gt;
-1: GRADE_COLON_AND_RECTAL_CANCER_UP 0.01098901 0.02197802 0.3032790 1.5960873
-2: GRADE_COLON_AND_RECTAL_CANCER_DN 0.46374046 0.46374046 0.2120043 0.9892146
+<pre class="bordered"><code>                            pathway      pval      padj        ES       NES
+                             &lt;char&gt;     &lt;num&gt;     &lt;num&gt;     &lt;num&gt;     &lt;num&gt;
+1: GRADE_COLON_AND_RECTAL_CANCER_UP 0.0321489 0.0642978 0.3032790 1.5754067
+2: GRADE_COLON_AND_RECTAL_CANCER_DN 0.5343228 0.5343228 0.2120043 0.9630339
    nMoreExtreme  size                                  leadingEdge
           &lt;num&gt; &lt;int&gt;                                       &lt;list&gt;
-1:            5    66 PLAU,TCF7,CD46,GTF3A,HNRNPA2B1,TFB1M,...[17]
-2:          242    41  CHST15,TOX2,SASH1,TGFBR3,TRPS1,GPC1,...[12]</code></pre>
+1:           18    66 PLAU,TCF7,CD46,GTF3A,HNRNPA2B1,TFB1M,...[17]
+2:          287    41  CHST15,TOX2,SASH1,TGFBR3,TRPS1,GPC1,...[12]</code></pre>
 </div>
 </div>
 <p>Plot GSEA results</p>

diff --git a/docs/ChIP-seq_analysis/pages/ChIP-seq_analysis_part1.html b/docs/ChIP-seq_analysis/pages/ChIP-seq_analysis_part1.html
@@ -6,7 +6,7 @@
 
 <meta name="viewport" content="width=device-width, initial-scale=1.0, user-scalable=yes">
 
-<meta name="dcterms.date" content="2026-05-24">
+<meta name="dcterms.date" content="2026-05-25">
 
 <title>ChIP-seq_analysis_part1 – 2026 MBMM UNIMI</title>
 <style>
@@ -286,7 +286,7 @@ window.Quarto = {
     <div>
     <div class="quarto-title-meta-heading">Published</div>
     <div class="quarto-title-meta-contents">
-      <p class="date">May 24, 2026</p>
+      <p class="date">May 25, 2026</p>
     </div>
   </div>
   

diff --git a/docs/ChIP-seq_analysis/pages/ChIP-seq_principles.html b/docs/ChIP-seq_analysis/pages/ChIP-seq_principles.html
@@ -6,7 +6,7 @@
 
 <meta name="viewport" content="width=device-width, initial-scale=1.0, user-scalable=yes">
 
-<meta name="dcterms.date" content="2026-05-24">
+<meta name="dcterms.date" content="2026-05-25">
 
 <title>ChIP-seq_workflow – 2026 MBMM UNIMI</title>
 <style>
@@ -223,7 +223,7 @@ pre > code.sourceCode > span > a:first-child::before { text-decoration: underlin
     <div>
     <div class="quarto-title-meta-heading">Published</div>
     <div class="quarto-title-meta-contents">
-      <p class="date">May 24, 2026</p>
+      <p class="date">May 25, 2026</p>
     </div>
   </div>
   

diff --git a/docs/Gviz/pages/Genomic_overviews_with_Gviz.html b/docs/Gviz/pages/Genomic_overviews_with_Gviz.html
@@ -6,7 +6,7 @@
 
 <meta name="viewport" content="width=device-width, initial-scale=1.0, user-scalable=yes">
 
-<meta name="dcterms.date" content="2026-05-24">
+<meta name="dcterms.date" content="2026-05-25">
 
 <title>Gviz – 2026 MBMM UNIMI</title>
 <style>
@@ -253,7 +253,7 @@ pre > code.sourceCode > span > a:first-child::before { text-decoration: underlin
     <div>
     <div class="quarto-title-meta-heading">Published</div>
     <div class="quarto-title-meta-contents">
-      <p class="date">May 24, 2026</p>
+      <p class="date">May 25, 2026</p>
     </div>
   </div>
   

diff --git a/docs/IntroGR/pages/GRanges_gtf.html b/docs/IntroGR/pages/GRanges_gtf.html
@@ -6,7 +6,7 @@
 
 <meta name="viewport" content="width=device-width, initial-scale=1.0, user-scalable=yes">
 
-<meta name="dcterms.date" content="2026-05-24">
+<meta name="dcterms.date" content="2026-05-25">
 
 <title>GRanges – 2026 MBMM UNIMI</title>
 <style>
@@ -240,7 +240,7 @@ pre > code.sourceCode > span > a:first-child::before { text-decoration: underlin
     <div>
     <div class="quarto-title-meta-heading">Published</div>
     <div class="quarto-title-meta-contents">
-      <p class="date">May 24, 2026</p>
+      <p class="date">May 25, 2026</p>
     </div>
   </div>
   